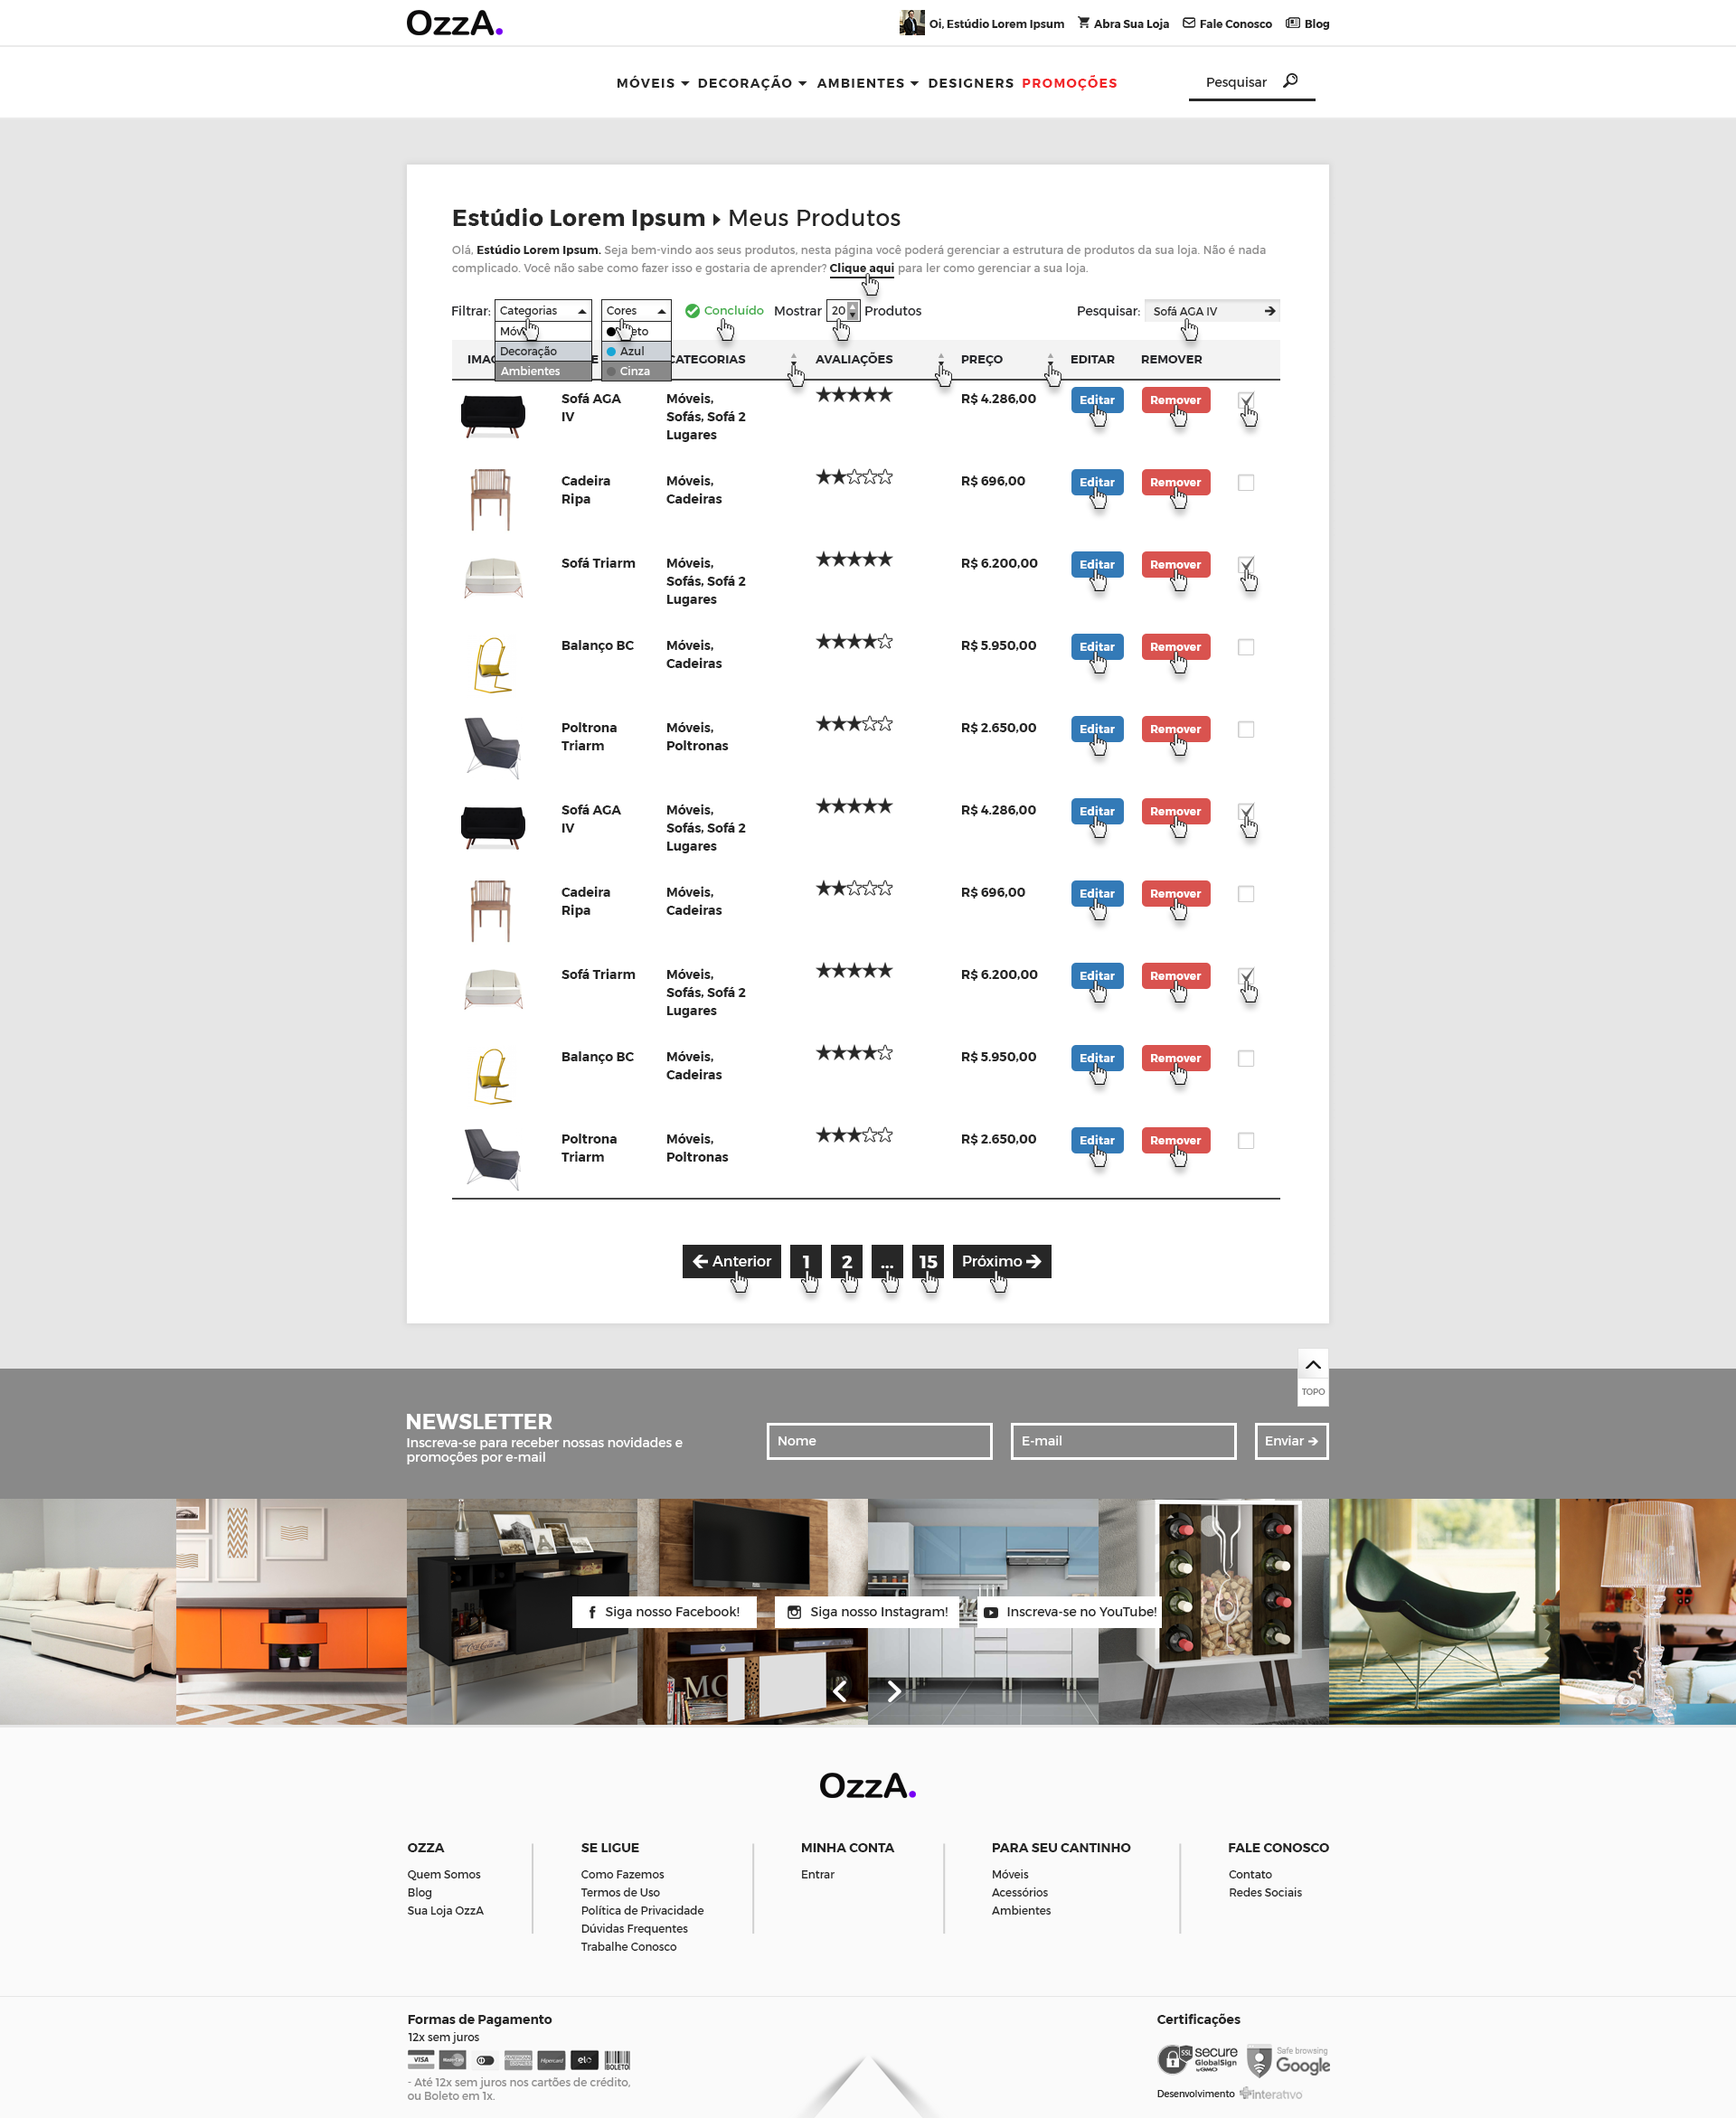
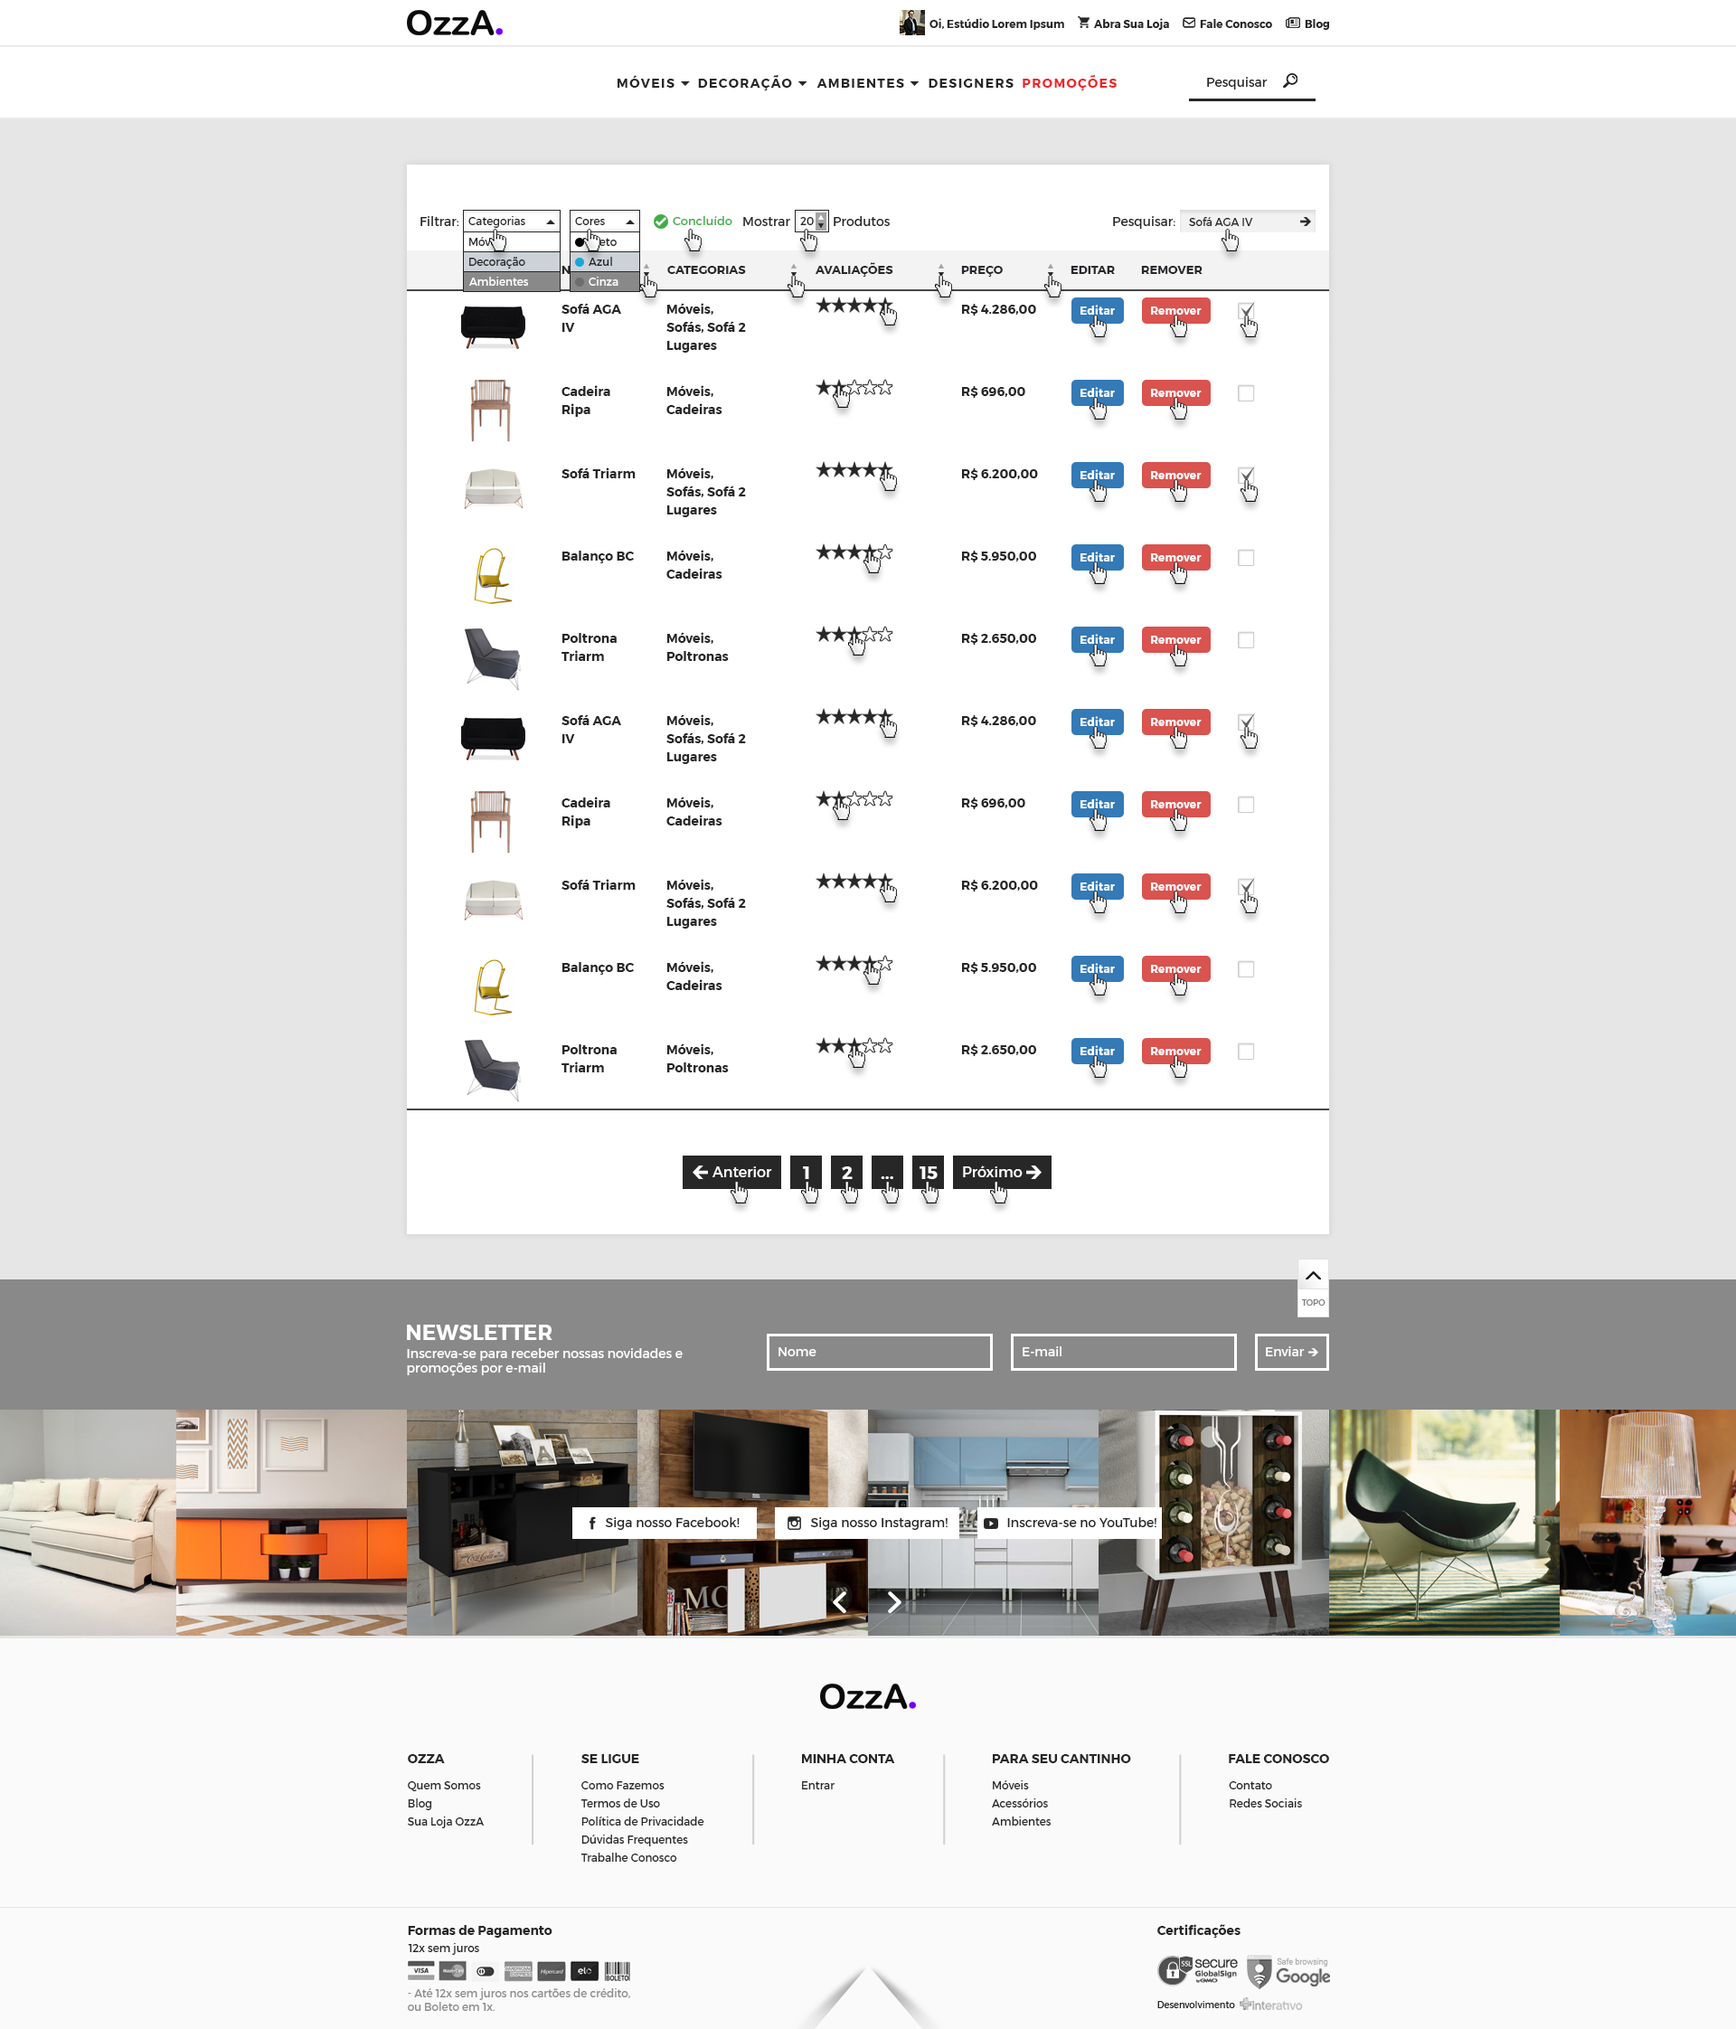
Add files via upload

diff --git a/css/style.css b/css/style.css
@@ -558,18 +558,18 @@
 		
 		.produtos-dashboard {
 			width: 100%;
-			height: 2343px;
+			height: 2244px;
 			background: url('../imgs/produtos-dashboard.png') no-repeat 50% 0%;
 		}
 		
 		.produtos-dashboard-hover {
 			width: 100%;
-			height: 2343px;
+			height: 2244px;
 			background: url('../imgs/produtos-dashboard-hover.png') no-repeat 50% 0%;
 		}
 		
 		.produtos-dashboard-active {
 			width: 100%;
-			height: 2343px;
+			height: 2244px;
 			background: url('../imgs/produtos-dashboard-active.png') no-repeat 50% 0%;
 		}
